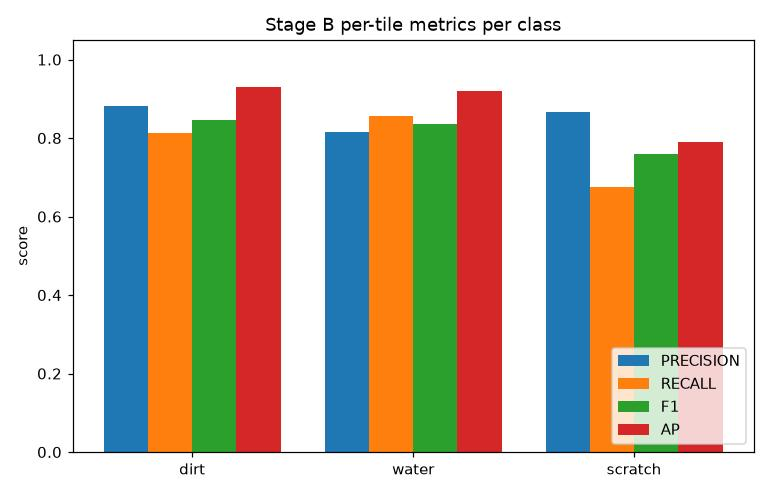
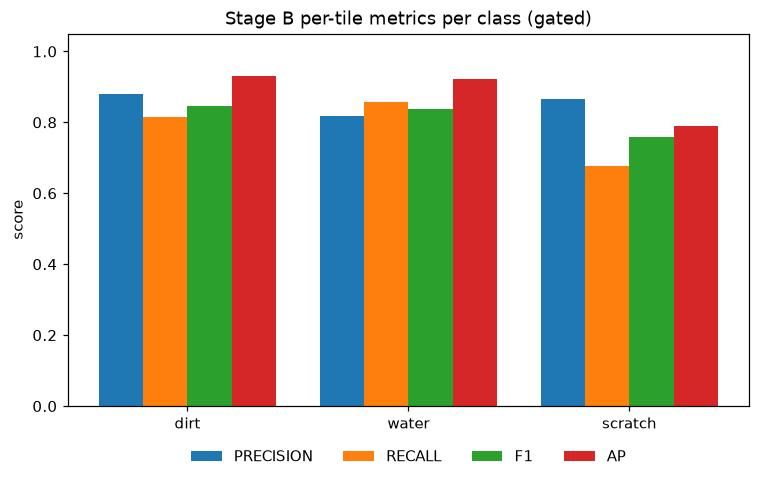
Fix overlapping legends and titles in report figures
Bar-chart and PR legends move below the axes, the PR title is shortened (its
baseline note becomes a legend entry), file tags no longer leak into titles,
gated figures say so, and the combo and class-example figures get room for
their titles and legends. All report figures regenerated
(scripts/hpc/regenerate_report_figures.sh).

Changed region(s): [[0.0, 0.0, 1.0, 0.9647], [0.303, 0.1556, 0.3636, 0.1867]]

diff --git a/scripts/visualize_stage_a_results.py b/scripts/visualize_stage_a_results.py
@@ -117,9 +117,10 @@ def plot_metrics_bar_chart(metric_rows, out_path, title="Stage A test-split metr
     ax.set_ylim(0, 1.05)
     ax.set_ylabel("score")
     ax.set_title(title)
-    ax.legend(loc="lower right")
+    # below the axes, so it never covers a bar
+    ax.legend(loc="upper center", bbox_to_anchor=(0.5, -0.08), ncol=len(metrics), frameon=False)
     fig.tight_layout()
-    fig.savefig(out_path, dpi=110)
+    fig.savefig(out_path, dpi=110, bbox_inches="tight")
     plt.close(fig)
 
 
@@ -151,20 +152,25 @@ def plot_roc_pr_curves(labels, probs, class_names, out_path, title="Stage A"):
     ax_roc.plot([0, 1], [0, 1], color="gray", linestyle="--", linewidth=1, label="random")
     ax_roc.set_xlabel("false positive rate")
     ax_roc.set_ylabel("true positive rate")
-    ax_roc.set_title(f"{title}: ROC curves")
+    ax_roc.set_title("ROC curves")
     ax_roc.legend(loc="lower right", fontsize=9)
     ax_roc.set_xlim(0, 1)
     ax_roc.set_ylim(0, 1.02)
 
     ax_pr.set_xlabel("recall")
     ax_pr.set_ylabel("precision")
-    ax_pr.set_title(f"{title}: PR curves\n(dotted line = that class's positive rate, i.e. random-guessing baseline)")
-    ax_pr.legend(loc="lower left", fontsize=9)
+    ax_pr.set_title("Precision-recall curves")
+    handles, _ = ax_pr.get_legend_handles_labels()
+    handles.append(plt.Line2D([], [], color="gray", linestyle=":", label="positive rate (random baseline)"))
+    # below the axes: inside, it would cover a curve or a baseline whose height varies by stage
+    ax_pr.legend(handles=handles, loc="upper center", bbox_to_anchor=(0.5, -0.13), ncol=2, fontsize=9,
+                 frameon=False)
+    fig.suptitle(title)
     ax_pr.set_xlim(0, 1)
     ax_pr.set_ylim(0, 1.02)
 
     fig.tight_layout()
-    fig.savefig(out_path, dpi=110)
+    fig.savefig(out_path, dpi=110, bbox_inches="tight")
     plt.close(fig)
 
 
@@ -321,7 +327,7 @@ def main():
     print(f"wrote {metrics_path}")
 
     curves_path = out_dir / f"stage_a_roc_pr_curves{args.tag}.jpg"
-    plot_roc_pr_curves(labels, probs, class_names, curves_path, title=f"Stage A{args.tag}")
+    plot_roc_pr_curves(labels, probs, class_names, curves_path, title="Stage A")
     print(f"wrote {curves_path}")
 
     sample_indices = select_diverse_sample_indices(dataset.rows, class_names, per_kind=args.per_kind, seed=args.seed)
@@ -330,7 +336,7 @@ def main():
     print(f"wrote {grid_path}")
 
     severity_path = out_dir / f"stage_a_probability_by_severity{args.tag}.jpg"
-    plot_probability_by_severity(dataset.rows, probs, class_names, severity_path, title=f"Stage A{args.tag}")
+    plot_probability_by_severity(dataset.rows, probs, class_names, severity_path, title="Stage A")
     print(f"wrote {severity_path}")
 
     if args.log_file:

diff --git a/scripts/visualize_stage_a_class_examples.py b/scripts/visualize_stage_a_class_examples.py
@@ -94,7 +94,7 @@ def plot_class_example(class_names, target_class,
                         clean_image, clean_label, clean_probs,
                         dist_image, dist_label, dist_probs,
                         threshold, out_path):
-    fig = plt.figure(figsize=(9, 6.5))
+    fig = plt.figure(figsize=(9, 7))
     gs = fig.add_gridspec(2, 2, height_ratios=[2.2, 1], hspace=0.35, wspace=0.25)
 
     ax_img_clean = fig.add_subplot(gs[0, 0])
@@ -124,7 +124,10 @@ def plot_class_example(class_names, target_class,
         ax.set_xlabel("predicted probability")
         ax.set_title(subtitle, fontsize=10)
         for yi, p in zip(y, probs):
-            ax.text(min(p + 0.02, 0.9), yi, f"{p:.2f}", va="center", fontsize=8)
+            if p > 0.85:
+                ax.text(p - 0.02, yi, f"{p:.2f}", va="center", ha="right", fontsize=8, color="white")
+            else:
+                ax.text(p + 0.02, yi, f"{p:.2f}", va="center", fontsize=8)
 
     legend_handles = [
         plt.Rectangle((0, 0), 1, 1, color="seagreen", label="hit"),
@@ -132,9 +135,10 @@ def plot_class_example(class_names, target_class,
         plt.Rectangle((0, 0), 1, 1, color="darkorange", label="false alarm"),
         plt.Rectangle((0, 0), 1, 1, color="crimson", label="miss"),
     ]
-    fig.legend(handles=legend_handles, loc="lower center", ncol=4, fontsize=9, frameon=False)
+    fig.legend(handles=legend_handles, loc="lower center", ncol=4, fontsize=9, frameon=False,
+               bbox_to_anchor=(0.5, 0.0))
     fig.suptitle(f"Stage A qualitative example — {target_class}", fontsize=13)
-    fig.tight_layout(rect=[0, 0.05, 1, 0.95])
+    fig.tight_layout(rect=[0, 0.1, 1, 0.95])
     fig.savefig(out_path, dpi=110)
     plt.close(fig)
 

diff --git a/scripts/visualize_stage_c_results.py b/scripts/visualize_stage_c_results.py
@@ -249,17 +249,18 @@ def main():
     out_dir = Path(args.out_dir)
     out_dir.mkdir(parents=True, exist_ok=True)
 
+    gated = " (gated)" if args.gate_checkpoint else ""
     metrics_path = out_dir / f"stage_c_test_metrics{args.tag}.jpg"
-    plot_metrics_bar_chart(metric_rows, metrics_path, title=f"Stage C pooled-pixel metrics per class{args.tag}")
+    plot_metrics_bar_chart(metric_rows, metrics_path, title=f"Stage C pooled-pixel metrics per class{gated}")
     print(f"wrote {metrics_path}")
 
     curves_path = out_dir / f"stage_c_roc_pr_curves{args.tag}.jpg"
-    plot_roc_pr_curves(labels_flat, probs_flat, class_names, curves_path, title=f"Stage C{args.tag}")
+    plot_roc_pr_curves(labels_flat, probs_flat, class_names, curves_path, title=f"Stage C{gated}")
     print(f"wrote {curves_path}")
 
     severity_path = out_dir / f"stage_c_probability_by_severity{args.tag}.jpg"
     plot_probability_by_severity(dataset.rows, max_probs, class_names, severity_path,
-                                  title=f"Stage C{args.tag} (max prob per image)")
+                                  title=f"Stage C{gated} (max prob per image)")
     print(f"wrote {severity_path}")
 
     report_rows = select_report_rows(dataset, raw_max_probs, class_names, per_class=args.per_kind, seed=args.seed)
@@ -285,7 +286,7 @@ def main():
             curve_path = out_dir / f"stage_c_training_curve{args.tag}.jpg"
             plot_training_curve(
                 records, curve_path,
-                title=f"Stage C training curve{args.tag} (real TinyGPU run)",
+                title="Stage C training curve (real TinyGPU run)",
                 ylabel="loss",
             )
             print(f"wrote {curve_path}")

diff --git a/scripts/visualize_stage_b_results.py b/scripts/visualize_stage_b_results.py
@@ -190,7 +190,7 @@ def plot_combo_sample(dataset, idx, active_classes, probs, labels, class_names, 
         )
 
     fig.suptitle(f"Combo variant: {' + '.join(active_classes)} all active on the same image", fontsize=11)
-    fig.tight_layout()
+    fig.tight_layout(rect=[0, 0, 1, 0.92])
     fig.savefig(out_path, dpi=110)
     plt.close(fig)
 
@@ -493,17 +493,18 @@ def main():
     out_dir = Path(args.out_dir)
     out_dir.mkdir(parents=True, exist_ok=True)
 
+    gated = " (gated)" if args.gate_checkpoint else ""
     metrics_path = out_dir / f"stage_b_test_metrics{args.tag}.jpg"
-    plot_metrics_bar_chart(metric_rows, metrics_path, title="Stage B per-tile metrics per class")
+    plot_metrics_bar_chart(metric_rows, metrics_path, title=f"Stage B per-tile metrics per class{gated}")
     print(f"wrote {metrics_path}")
 
     curves_path = out_dir / f"stage_b_roc_pr_curves{args.tag}.jpg"
-    plot_roc_pr_curves(labels_flat, probs_flat, class_names, curves_path, title="Stage B")
+    plot_roc_pr_curves(labels_flat, probs_flat, class_names, curves_path, title=f"Stage B{gated}")
     print(f"wrote {curves_path}")
 
     severity_path = out_dir / f"stage_b_probability_by_severity{args.tag}.jpg"
     plot_probability_by_severity(dataset.rows, max_prob_per_image(probs), class_names, severity_path,
-                                  title="Stage B (max prob per image)")
+                                  title=f"Stage B{gated} (max prob per image)")
     print(f"wrote {severity_path}")
 
     sample_indices = select_diverse_sample_indices(dataset.rows, class_names, per_kind=args.per_kind, seed=args.seed)
